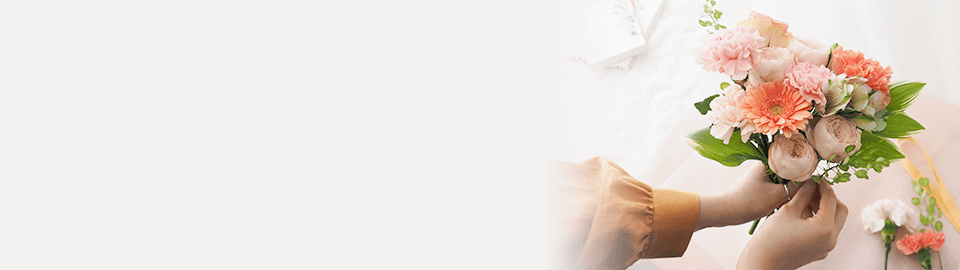
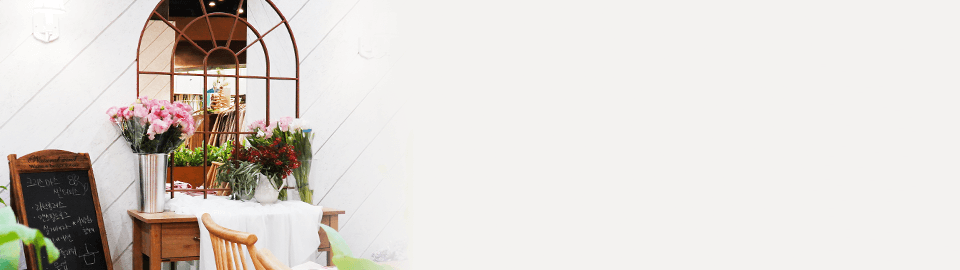
Fix: 슬라이더

diff --git a/src/views/bottomBanner.html b/src/views/bottomBanner.html
@@ -1,4 +1,5 @@
 <section class="bottomBanner">
+  <h3 class="title">꾸까 브랜드 스토리</h3>
   <div
     id="carouselExampleIndicators"
     class="carousel slide"
@@ -11,7 +12,6 @@
         class="active"
       ></li>
       <li data-target="#carouselExampleIndicators" data-slide-to="1"></li>
-      <li data-target="#carouselExampleIndicators" data-slide-to="2"></li>
     </ol>
     <div class="carousel-inner">
       <div class="carousel-item active"></div>
@@ -37,36 +37,3 @@
     </button>
   </div>
 </section>
-
-<nav class="navbar navbar-expand-lg navbar-light bg-light">
-  <a class="navbar-brand" href="#">Navbar</a>
-  <button
-    class="navbar-toggler"
-    type="button"
-    data-toggle="collapse"
-    data-target="#navbarNav"
-    aria-controls="navbarNav"
-    aria-expanded="false"
-    aria-label="Toggle navigation"
-  >
-    <span class="navbar-toggler-icon"></span>
-  </button>
-  <div class="collapse navbar-collapse" id="navbarNav">
-    <ul class="navbar-nav">
-      <li class="nav-item active">
-        <a class="nav-link" href="#"
-          >Home <span class="sr-only">(current)</span></a
-        >
-      </li>
-      <li class="nav-item">
-        <a class="nav-link" href="#">Features</a>
-      </li>
-      <li class="nav-item">
-        <a class="nav-link" href="#">Pricing</a>
-      </li>
-      <li class="nav-item">
-        <a class="nav-link disabled">Disabled</a>
-      </li>
-    </ul>
-  </div>
-</nav>

diff --git a/src/css/bottomBanner.css b/src/css/bottomBanner.css
@@ -1,14 +1,23 @@
+.bottomBanner {
+  height: 300px;
+  padding: 20px 20px 50px;
+  background-color: #f4f1f0;
+}
+
 .bottomBanner .carousel-inner {
   width: 100%;
 }
 
 .bottomBanner .carousel-item {
   width: 100%;
-  height: 200px;
-  background: url('../asset/images/banner_slide1.png') no-repeat right;
-  background-size: contain;
+  height: 180px;
+  background: url('/public/images/banner_slide1.png') no-repeat right;
+  background-size: cover;
 }
 
 .bottomBanner .carousel-item:nth-child(2) {
-  background-image: url('../asset/images/banner_slide2.png');
+  width: 100%;
+  height: 180px;
+  background: url('/public/images/banner_slide2.png') no-repeat;
+  background-size: cover;
 }

diff --git a/src/main.html b/src/main.html
@@ -36,8 +36,8 @@
     ></script>
     <div id="nav"></div>
     <div id="mainBanner"></div>
+    <div id="slide"></div>
     <div id="bottomBanner"></div>
-    <div id="slide"><div>
     <div id="footer"></div>
   </body>
 </html>
